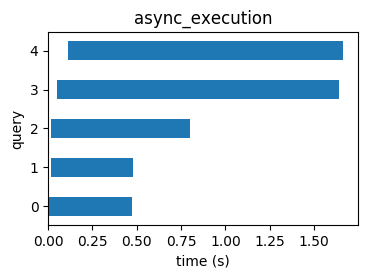
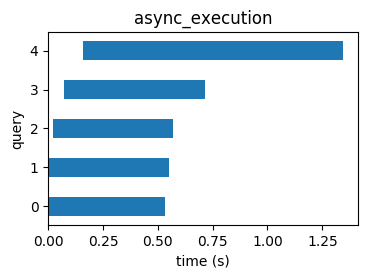
sync/async queries changing lod

diff --git a/bd.py b/bd.py
@@ -112,6 +112,8 @@ def plot_start_end(starts, ends, chart_name):
 	plt.barh(range(len(starts)),sizes,height=0.5,left=starts)
 	#plt.plot( starts, range(len(starts)),'g.')
 	#plt.plot( ends,range(len(ends)), 'r.')
+	end = sizes[len(sizes)-1]-starts[len(starts)-1]
+	print("ending at {}".format(end))
 
 	plt.savefig("{}.png".format(chart_name),bbox_inches = "tight")
 	
@@ -124,19 +126,20 @@ def plot_start_end(starts, ends, chart_name):
 def main():
 	
 	
-	#q1 = "SELECT ST_AsGDALRaster(ST_Union(altifr_75m_0150_6825.rast), 'GTiff') FROM altifr_75m_0150_6825"
-	
-	starters.start_sync_file_queries(0,'queries.txt','sync_execution')
+	q1 = "SELECT ST_AsGDALRaster(ST_Union(o_16_altifr_75m_0150_6825.rast), 'GTiff') FROM o_16_altifr_75m_0150_6825"
+	q2 = "SELECT ST_AsGDALRaster(o_16_demtable.rast, 'GTiff') FROM o_16_demtable"
 
 	#starters.exe_query_Ntimes_pool(q1, 5)
 	#starters.exe_query_async_Ntimes(q1,5)
 	#starters.query_async_pool_Ntimes(q1,30,5)
+	starters.start_sync_file_queries(0,'queries.txt','sync_execution')
 	
-	#starters.start_multith(50,4,50,q1)
-	
+	conn = connections.create_connection("postgis_test","postgres","admin","localhost","5432")
+	queries.execute_read_query(conn,q1)
 	starters.start_multith_file(10,10,'queries.txt','async_execution')
 	
 	
+	#starters.start_multith(50,4,50,q1)
 	#starters.query_table_overviews(4, 'altifr_75m_0150_6825')
 
 	#print(liste)
